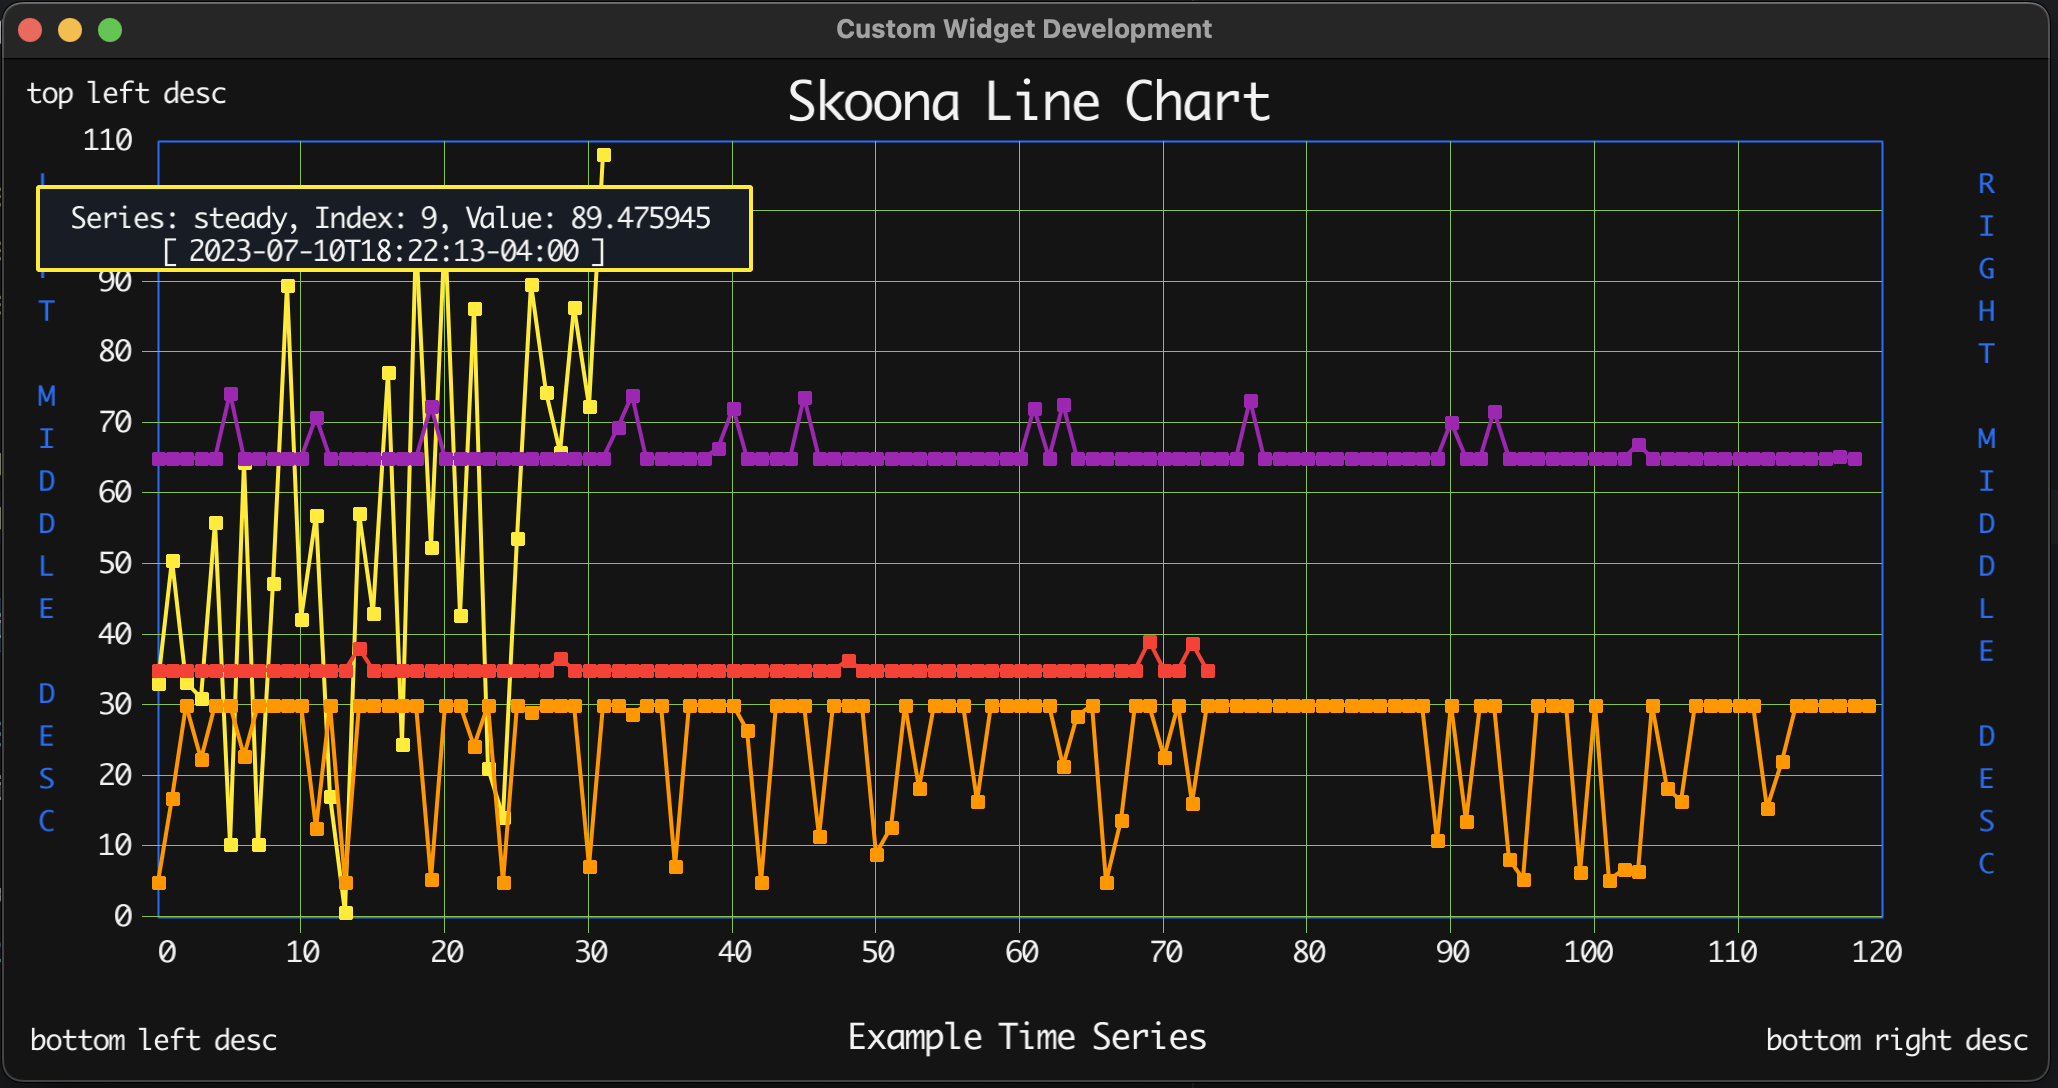
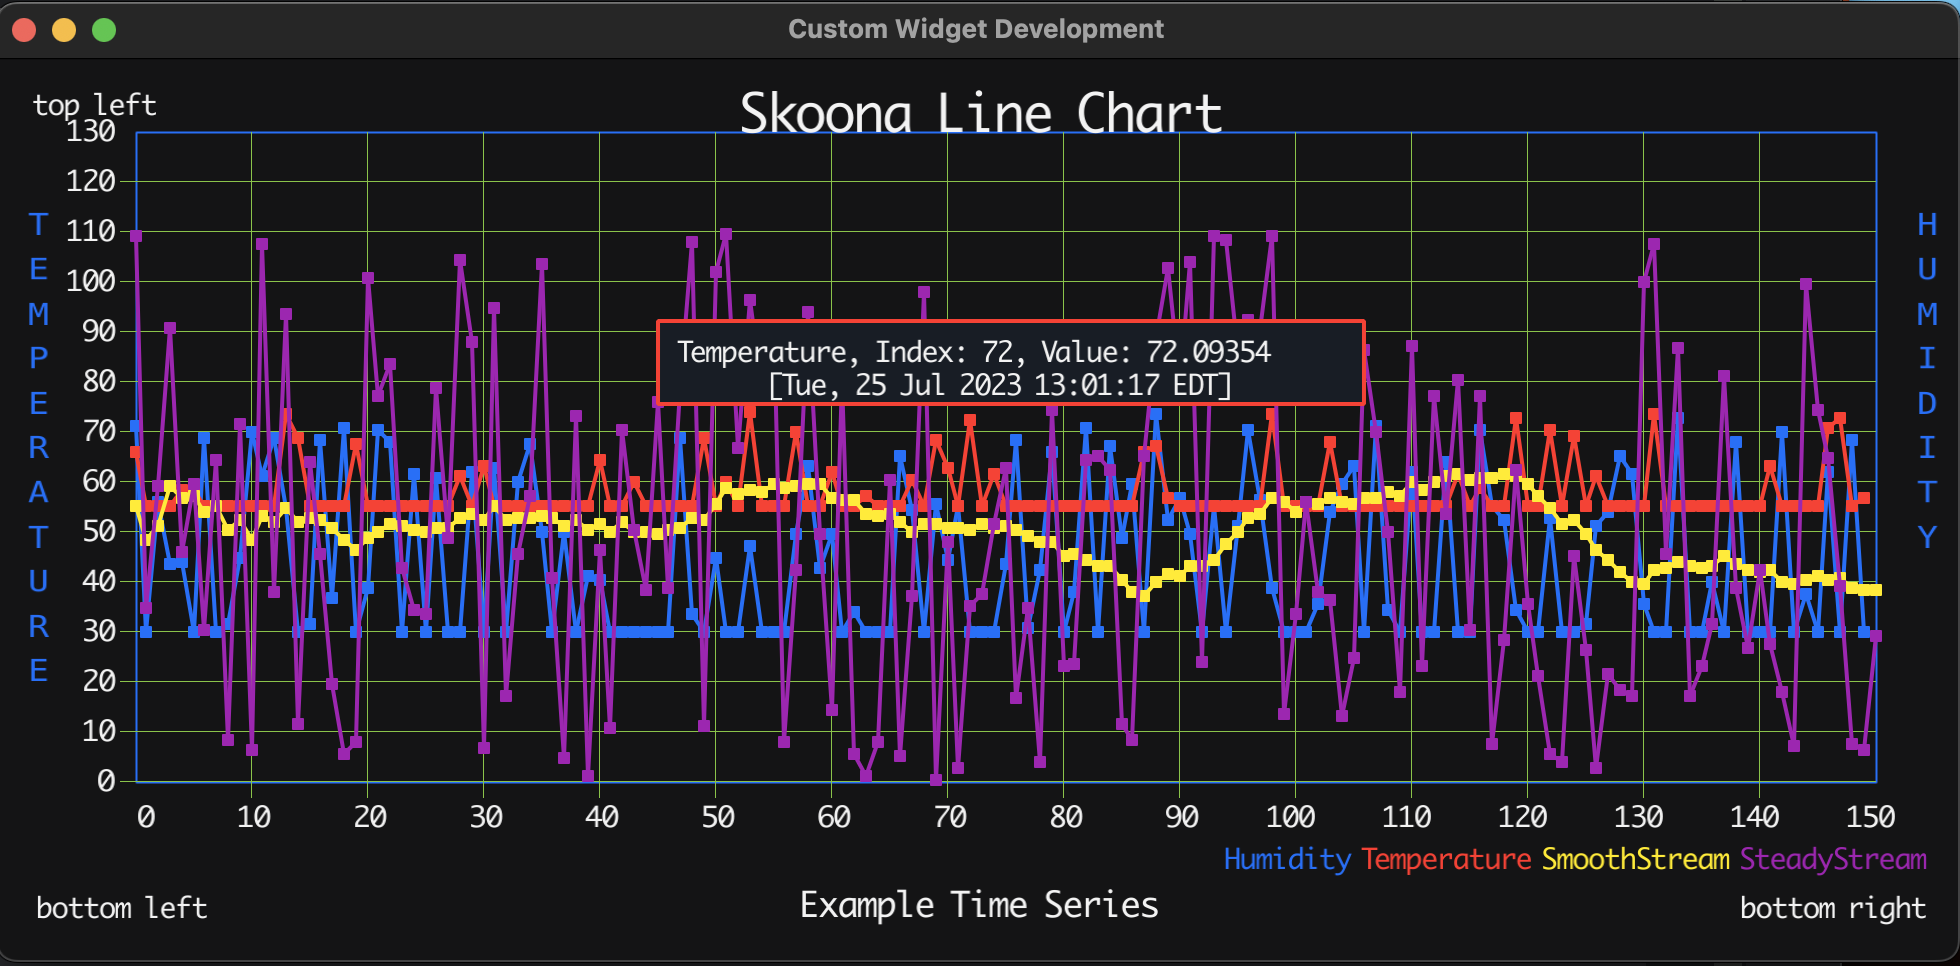
Updating Docs

diff --git a/README.md b/README.md
@@ -1,104 +1,134 @@
 # SknLineChart
-LineChart written to display periodic data samples on a line chart, with the ability to display the point value when hovered over with pointer.  There is an unlimited number of series which can be displayed. However, the current maximum number of points per series that can be shown on screen is 130 xpoints.  Accumulated point counts greater 130 simply roll off the end.    
+LineChart written to display periodic data samples on a line chart, with the ability to display the point value when hovered over with pointer.  There is an unlimited number of series which can be displayed. However, the current maximum number of points per series that can be shown on screen is 150 xpoints.  Accumulated point counts greater 150 simply roll off the end.    
 
 ![Display Example](sknlinechart.png)
 
 ## Features
-* Multiple Series of data points rendered as a single line
+* Multiple Series of data points rendered as a individual line
 * Series should be the same color. Each point in this chart accepts a themed color name
-* 130 datapoint are displayed on the x scale of chart, with 100 as the default Y value.
-* More than 130 data points causes the earliest points to be rolled off the screen; each series is independently scrolls
+* 150 datapoint are displayed on the x scale of chart, with 100 as the default Y value.
+* More than 150 data points causes the earliest points to be rolled off the screen; each series independently scrolls when limit is reached
 * Data points can be added at any time, causing the series to possible scroll automatically
-* The 130 x limit will throw and error on creation of the chart, or on the replacement of its active dataset.
+* The 150 x limit will throw and error on creation of the chart, or on the replacement of its active series.
 * Data point markers are toggled with mouse button 2
 * Hovering over a data point will show a popup near the mouse pointer, showing series, value, index, and timestamp of data under mouse
-* Mouse button 1 will toggle the sticky datapoint popup
+* Mouse button 1 will toggle the sticky hover popup
 * Labels are available for all four corners of window, include bottom and top centered titles
 * left and right middle labels can be used as scale descriptions
 * Any label left empty will not be displayed.
 * Horizontal and Vertical chart grid lines can also be turned off/on
 * There is a callback available which fires when a point if hovered over; passing the full datapoint and series name.
+* A `GraphPointSmoothing` interface is available to enable preprocessing of datapoints with a range of possible techniques, averaging was implemented as an example.
 
 ### SknLineChart Interface
 ```go
+package sknlinechart
+
+import "fyne.io/fyne/v2"
+
+// GraphPointSmoothing support for different implementation
+// of averaging or smooth data; current provides rolling average from last x reading.
+type GraphPointSmoothing interface {
+	AddValue(value float64) float64
+	SeriesName() string
+	IsNil() bool
+	String() string
+}
+
 // ChartDatapoint data container interface for LineChart
 type ChartDatapoint interface {
-Value() float32
-SetValue(y float32)
+	Value() float32
+	SetValue(y float32)
 
-ColorName() string
-SetColorName(n string)
+	ColorName() string
+	SetColorName(n string)
 
-Timestamp() string
-SetTimestamp(t string)
+	Timestamp() string
+	SetTimestamp(t string)
 
-// ExternalID string uuid assigned when created
-ExternalID() string
+	// ExternalID string uuid assigned when created
+	ExternalID() string
 
-// Copy returns a cloned copy of current item
-Copy() ChartDatapoint
+	// Copy returns a cloned copy of current item
+	Copy() ChartDatapoint
 
-// MarkerPosition internal use only: current data point marker location
-MarkerPosition() (*fyne.Position, *fyne.Position)
+	// MarkerPosition internal use only: current data point marker location
+	MarkerPosition() (*fyne.Position, *fyne.Position)
 
-// SetMarkerPosition internal use only: screen location of where data point marker is located
-SetMarkerPosition(top *fyne.Position, bottom *fyne.Position)
+	// SetMarkerPosition internal use only: screen location of where data point marker is located
+	SetMarkerPosition(top *fyne.Position, bottom *fyne.Position)
 }
 
 // LineChart feature list
 type LineChart interface {
-// Chart Attributes
+	// Chart Attributes
 
-IsDataPointMarkersEnabled() bool // mouse button 2 toggles
-IsHorizGridLinesEnabled() bool
-IsVertGridLinesEnabled() bool
-IsMousePointDisplayEnabled() bool // hoverable and mouse button one
+	IsDataPointMarkersEnabled() bool // mouse button 2 toggles
+	IsHorizGridLinesEnabled() bool
+	IsVertGridLinesEnabled() bool
+	IsColorLegendEnabled() bool
+	IsMousePointDisplayEnabled() bool // hoverable and mouse button one
 
-SetDataPointMarkers(enable bool)
-SetHorizGridLines(enable bool)
-SetVertGridLines(enable bool)
-SetMousePointDisplay(enable bool)
+	SetDataPointMarkers(enable bool)
+	SetHorizGridLines(enable bool)
+	SetVertGridLines(enable bool)
+	SetColorLegend(enable bool)
+	SetMousePointDisplay(enable bool)
 
-// Scale legend
+	// Scale legend
 
-GetMiddleLeftLabel() string
-GetMiddleRightLabel() string
+	GetMiddleLeftLabel() string
+	GetMiddleRightLabel() string
 
-// Info Labels
+	// Info Labels
 
-GetTopLeftLabel() string
-GetTitle() string
-GetTopRightLabel() string
-GetBottomLeftLabel() string
-GetBottomCenteredLabel() string
-GetBottomRightLabel() string
+	GetTopLeftLabel() string
+	GetTitle() string
+	GetTopRightLabel() string
+	GetBottomLeftLabel() string
+	GetBottomCenteredLabel() string
+	GetBottomRightLabel() string
 
-SetTopLeftLabel(newValue string)
-SetTitle(newValue string)
-SetTopRightLabel(newValue string)
-SetMiddleLeftLabel(newValue string)
-SetMiddleRightLabel(newValue string)
-SetBottomLeftLabel(newValue string)
-SetBottomCenteredLabel(newValue string)
-SetBottomRightLabel(newValue string)
+	SetTopLeftLabel(newValue string)
+	SetTitle(newValue string)
+	SetTopRightLabel(newValue string)
+	SetMiddleLeftLabel(newValue string)
+	SetMiddleRightLabel(newValue string)
+	SetBottomLeftLabel(newValue string)
+	SetBottomCenteredLabel(newValue string)
+	SetBottomRightLabel(newValue string)
 
-// ApplyDataSeries add a whole data series at once
-// expect this will rarely be used, since loading more than 130 point will raise error
-ApplyDataSeries(seriesName string, newSeries []*ChartDatapoint) error
+	// ApplyDataSeries add a whole data series at once
+	// expect this will rarely be used, since loading more than 130 point will raise error
+	ApplyDataSeries(seriesName string, newSeries []*ChartDatapoint) error
 
-// ApplyDataPoint primary method to add another data point to any series
-// If series has more than 130 points, point 0 will be rolled out making room for this one
-ApplyDataPoint(seriesName string, newDataPoint *ChartDatapoint)
+	// ApplyDataPoint primary method to add another data point to any series
+	// If series has more than 130 points, point 0 will be rolled out making room for this one
+	ApplyDataPoint(seriesName string, newDataPoint *ChartDatapoint)
 
-// SetMinSize set the minimum size limit for the linechart
-SetMinSize(s fyne.Size)
+	// SetMinSize set the minimum size limit for the linechart
+	SetMinSize(s fyne.Size)
 
-// EnableDebugLogging turns method entry/exit logging on or off
-EnableDebugLogging(enable bool)
+	// EnableDebugLogging turns method entry/exit logging on or off
+	EnableDebugLogging(enable bool)
 
-// SetHoverPointCallback method to call when a onscreen datapoint is hovered over by pointer
-SetOnHoverPointCallback(func(dataPoint ChartDatapoint))
+	// SetHoverPointCallback method to call when a onscreen datapoint is hovered over by pointer
+	SetOnHoverPointCallback(func(series string, dataPoint ChartDatapoint))
 
+	// ObjectCount internal use only: return the default ui elements for testing
+	ObjectCount() int
+
+	// fyne.CanvasObject compliance
+	// implemented by BaseWidget
+	Hide()
+	MinSize() fyne.Size
+	Move(position fyne.Position)
+	Position() fyne.Position
+	Refresh()
+	Resize(size fyne.Size)
+	Show()
+	Size() fyne.Size
+	Visible() bool
 }
 ```
 
@@ -156,7 +186,8 @@ import (
 	"fyne.io/fyne/v2/app"
 	"fyne.io/fyne/v2/container"
 	"fyne.io/fyne/v2/theme"
-	"github.com/skoona/sknlinechart"
+	lc "github.com/skoona/sknlinechart"
+	"log"
 	"math/rand"
 	"os"
 	"os/signal"
@@ -164,78 +195,92 @@ import (
 	"time"
 )
 
-func makeChart(title, footer string) (sknlinechart.SknLineChart, error) {
-	dataPoints := map[string][]*sknlinechart.LineChartDatapoint{} // legend, points
+func makeChart(title, footer string) (lc.LineChart, error) {
+	dataPoints := map[string][]*lc.ChartDatapoint{} // legend, points
 
 	rand.NewSource(1000.0)
-	for x := 1; x < 130; x++ {
+	for x := 1; x < 151; x++ {
 		val := rand.Float32() * 75.0
 		if val > 75.0 {
 			val = 75.0
 		} else if val < 30.0 {
 			val = 30.0
 		}
-		point := sknlinechart.NewLineChartDatapoint(val, theme.ColorBlue, time.Now().Format(time.RFC1123))
+		point := lc.NewChartDatapoint(val, theme.ColorBlue, time.Now().Format(time.RFC1123))
 		dataPoints["Humidity"] = append(dataPoints["Humidity"], &point)
 	}
-	for x := 1; x < 130; x++ {
+	for x := 1; x < 151; x++ {
 		val := rand.Float32() * 75.0
 		if val > 95.0 {
 			val = 95.0
 		} else if val < 55.0 {
 			val = 55.0
 		}
-		point := sknlinechart.NewLineChartDatapoint(val, theme.ColorRed, time.Now().Format(time.RFC1123))
+		point := lc.NewChartDatapoint(val, theme.ColorRed, time.Now().Format(time.RFC1123))
 		dataPoints["Temperature"] = append(dataPoints["Temperature"], &point)
 	}
 
-	lineChart, err := sknlinechart.NewLineChart(title, footer, &dataPoints)
+	lineChart, err := lc.NewLineChart(title, footer, &dataPoints)
 	if err != nil {
 		fmt.Println(err.Error())
+		if lineChart == nil {
+			panic(err.Error())
+		}
 	}
 	lineChart.EnableDebugLogging(true)
+	lineChart.SetTopLeftLabel("top left")
+	//lineChart.SetTopRightLabel("top right")
+
+	lineChart.SetMiddleLeftLabel("Temperature")
+	lineChart.SetMiddleRightLabel("Humidity")
+
+	lineChart.SetBottomLeftLabel("bottom left")
+	lineChart.SetBottomRightLabel("bottom right")
 
 	return lineChart, err
 }
 
 func main() {
+	systemSignalChannel := make(chan os.Signal, 1)
+	exitCode := 0
 	windowClosed := false
-
+	logger := log.New(os.Stdout, "[DEBUG] ", log.Lmicroseconds|log.Lshortfile)
 	gui := app.NewWithID("net.skoona.sknLineChart")
 	w := gui.NewWindow("Custom Widget Development")
 
-	w.SetOnClosed(func() {
-		windowClosed = true
-		fmt.Println("::main() Window Closed")
-		time.Sleep(2 * time.Second)
-	})
-
 	lineChart, err := makeChart("Skoona Line Chart", "Example Time Series")
 
-	go (func(chart sknlinechart.SknLineChart) {
-		var many []*sknlinechart.LineChartDatapoint
-		for x := 1; x < 121; x++ {
+	go (func(chart lc.LineChart) {
+		var many []*lc.ChartDatapoint
+		for x := 1; x < 161; x++ {
 			val := rand.Float32() * 25.0
 			if val > 50.0 {
 				val = 50.0
 			} else if val < 5.0 {
 				val = 5.0
 			}
-			point := sknlinechart.NewLineChartDatapoint(val, theme.ColorPurple, time.Now().Format(time.RFC1123))
+			point := lc.NewChartDatapoint(val, theme.ColorPurple, time.Now().Format(time.RFC1123))
 			many = append(many, &point)
 		}
 		time.Sleep(10 * time.Second)
 		err = lineChart.ApplyDataSeries("AllAtOnce", many)
 		if err != nil {
-			fmt.Println("ApplyDataSeries", err.Error())
+			logger.Println("ApplyDataSeries", err.Error())
 		}
 		time.Sleep(time.Second)
-		for i := 0; i < 150; i++ {
+
+		smoothed := lc.NewGraphAverage("SmoothStream", 32)
+		for i := 0; i < 151; i++ {
 			if windowClosed {
 				break
 			}
-			point := sknlinechart.NewLineChartDatapoint(rand.Float32()*110.0, theme.ColorYellow, time.Now().Format(time.RFC1123))
-			chart.ApplyDataPoint("SteadyStream", &point)
+			dVal := float64(rand.Float32() * 110.0)
+			smoother := smoothed.AddValue(dVal)
+			point := lc.NewChartDatapoint(float32(smoother), theme.ColorYellow, time.Now().Format(time.RFC1123))
+			chart.ApplyDataPoint("SmoothStream", &point)
+
+			point2 := lc.NewChartDatapoint(float32(dVal), theme.ColorPurple, time.Now().Format(time.RFC1123))
+			chart.ApplyDataPoint("SteadyStream", &point2)
 			if windowClosed {
 				break
 			}
@@ -243,20 +288,25 @@ func main() {
 		}
 	})(lineChart)
 
-	w.Resize(fyne.NewSize(982, 452))
-	w.SetContent(container.NewPadded(lineChart))
+	lineChart.SetOnHoverPointCallback(func(series string, p lc.ChartDatapoint) {
+		logger.Printf("Chart Datapoint Selected Callback: series:%s, point: %v\n", series, p)
+	})
 
-	go func(w *fyne.Window) {
-		systemSignalChannel := make(chan os.Signal, 1)
-		signal.Notify(systemSignalChannel, syscall.SIGINT, syscall.SIGTERM)
-		sig := <-systemSignalChannel // wait on ctrl-c
+	w.SetContent(container.NewPadded(lineChart))
+	w.Resize(fyne.NewSize(982, 452))
+
+	go func(w *fyne.Window, stopFlag chan os.Signal) {
+		signal.Notify(stopFlag, syscall.SIGINT, syscall.SIGTERM)
+		sig := <-stopFlag // wait on ctrl-c
 		windowClosed = true
-		fmt.Println("Signal Received: ", sig.String())
+		logger.Println("Signal Received: ", sig.String())
+		exitCode = 1
 		(*w).Close()
-	}(&w)
+	}(&w, systemSignalChannel)
 
 	w.ShowAndRun()
-	
+
+	os.Exit(exitCode)
 }
 
 ```
@@ -277,6 +327,15 @@ func main() {
 
 ```
 
+### Installing
+
+1. Clone this repo in your GO src directory
+2. Install Go
+3. Install Fyne
+4. Install Ginkgo
+5. possibly update your `../go.work` file to include this module
+6. `go mod tidy`
+7. `go run com/sknlinechart/main.go`
 
 ### Contributing
 
@@ -284,7 +343,7 @@ func main() {
 2. Create your feature branch (`git checkout -b my-new-feature`)
 3. Commit your changes (`git commit -am 'Add some feature'`)
 4. Push to the branch (`git push origin my-new-feature`)
-5. Create a new Pull Request
+5. Create a new Pull Request to `development` branch
 
 
 ### LICENSE
